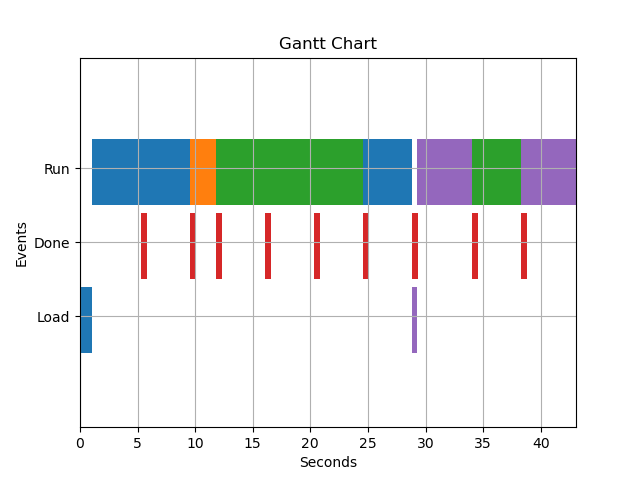
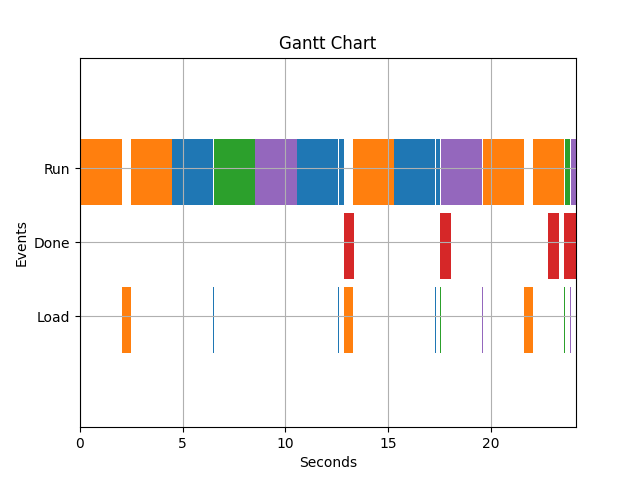
added some print statements when eviction

diff --git a/main.py b/main.py
@@ -9,17 +9,21 @@ model2 = MLModel("ResNet50", 0.03879141808, 2.226957321, 5474)
 model3 = MLModel("VGG16", 0.03628611565, 4.252752304, 9540)
 model4 = MLModel("VGG19", 0.03628611565, 4.252752304, 5708)
 model5 = MLModel("Resnet18", 0.000928401947, 1.959828854, 1508)
+model1_copy = MLModel("ResNet152 Copy", 0.4305839539, 4.763916254, 11586)
+
 
 SCHEDULE1 = [[0, 1, 0], [1, 0, 10], [2, 0, 20], [3, 1, 20], [4, 2, 20], [5, 3, 20]]
 SCHEDULE2 = [[0, 1, 0], [1, 0, 0], [2, 0, 0], [3, 1, 0], [4, 2, 0], [5, 3, 0]]
+SCHEDULE3 = [[0, 0, 0], [1, 0, 10], [2, 4, 21], [3, 4, 29], [4, 5, 18], [5, 5, 23], [6, 0, 16], [7, 5, 10], [8, 4, 5], [9, 3, 2]]     
 
 
-def get_random_schedule(num_tasks = 10, time_period = 30):
+models = [model1, model2, model3, model4, model5]
+def get_random_schedule(num_tasks = 10, time_period = 20):
     schedule = []
-    models = [model1, model2, model3, model4]
     for i in range(num_tasks):
         random_model = random.randint(0, len(models)-1)
         random_arrival_time = random.randint(0, time_period)
+        if(i == 0): random_arrival_time = 0
         task = [i, random_model, random_arrival_time]
         schedule += [task]
     print(schedule)
@@ -28,19 +32,19 @@ def get_random_schedule(num_tasks = 10, time_period = 30):
 
 QUANTUM = 2
 
-schedule = get_random_schedule()
+schedule = SCHEDULE2
 
-RR_sim = RoundRobin(schedule, QUANTUM)
+RR_sim = RoundRobin(schedule, QUANTUM, evict_policy = Eviction.LRU)
 FCFS_sim = FCFS(schedule)
 SFS_sim = SFS(schedule)
-SRTF_sim = SRTF(schedule,evict_policy=Eviction.MRU)
+SRTF_sim = SRTF(schedule,evict_policy=Eviction.LRU)
 HRRF_sim = HRRF(schedule)
-for model in [model1, model2, model3, model4]:
+for model in models:
     for simulation in [RR_sim, FCFS_sim, SFS_sim, SRTF_sim, HRRF_sim]:
         simulation.add_model(model)
 
 # Change this line to change which model you want to run
-sim = HRRF_sim
+sim = RR_sim
 
 sim.run(100)
 sim.print_events()

diff --git a/assets/MemoryManager.py b/assets/MemoryManager.py
@@ -25,15 +25,17 @@ class MemoryManager:
     def load(self, model: MLModel) -> float:
         CACHE_HIT_TIME = 0.0
         if model in self.loaded:
-            return CACHE_HIT_TIME
+            return False, CACHE_HIT_TIME
 
+        has_evicted = False
         while not self.can_load(model):
             self.evict()
+            has_evicted = True
 
         self.most_recently_use_helper(model)
         self.loaded.add(model)
         self.curr_memory += model.space
-        return model.load_time
+        return has_evicted, model.load_time
 
     def evict(self) -> None:
         if (self.evict_policy == Eviction.LRU): evicted_model = self.last_seen.pop(0)   # Remove the least recently used

diff --git a/assets/scheduling_algorithm.py b/assets/scheduling_algorithm.py
@@ -1,9 +1,10 @@
 from typing import List
 from assets.Simulation import Simulation
+from assets.Simulation import Eviction
 
 class RoundRobin(Simulation):
-    def __init__(self, schedule, quantum: int) -> None:
-        super().__init__(schedule)
+    def __init__(self, schedule, quantum: int, evict_policy = Eviction.MRU) -> None:
+        super().__init__(schedule, evict_policy=evict_policy)
         self.quantum : int = quantum
 
     def run_next(self, active_pool: List, next_arrival_time: float):

diff --git a/assets/Simulation.py b/assets/Simulation.py
@@ -25,7 +25,8 @@ class Simulation:
         self.models.append(model)
 
     def run_model(self, model: MLModel, task_no, time_run = None) -> None:
-        load_cost = self.memory_manger.load(model)
+        has_evicted, load_cost = self.memory_manger.load(model)
+        if(has_evicted): self.log_event(model, "Evict", None)
         if load_cost != 0:
             self.log_event(model, "Load", task_no)            
         self.global_time += load_cost
